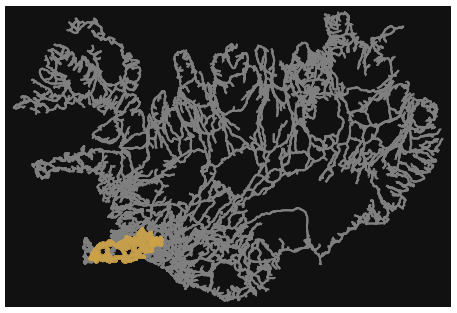
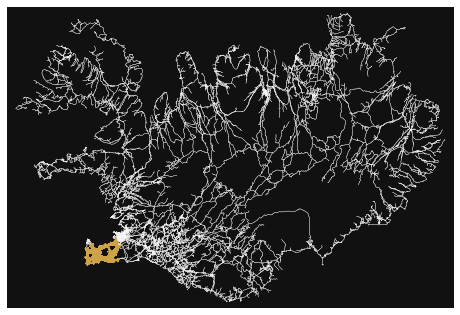
adding higher res photos

Changed region(s): [[0.0, 0.0, 0.9803, 1.0]]

diff --git a/blog/index.html b/blog/index.html
@@ -569,13 +569,14 @@ layout: default
         fig, ax = ox.plot_graph_route(graph,
                                         route,
                                         node_size=0,
-                                        edge_linewidth=2,
-                                        edge_color='grey',
+                                        edge_linewidth=0.3,
+                                        edge_color='white',
                                         route_color="#EB8D43",
-                                        route_alpha=0.9,
+                                        route_linewidth=1.5,
+                                        route_alpha=1.0,
                                         orig_dest_size=0)
         </code></pre>
-        <img src="map/my_path.png" class="post_img" alt="A black background, with the all the roads in Iceland plotted in dark grey. An orange line traces my path through the country."></img>
+        <img src="map/my_path.png" class="post_img" width="80%" alt="A black background, with the all the roads in Iceland plotted in grey. An orange line traces my path through the country."></img>
 
         And here we have a visualization of my vacation. 
         It's also important to note some limitations in this visualization. This method requires snapping to a road network. This might get incorrect locations at times when I was not on a true road, like on hikes or boats. Additionally, the shortest path between two points might not be the path that I took. This can lead to wrong data especially in cases where I travelled far between Google's recordings.
@@ -664,7 +665,6 @@ layout: default
         <p>This bias towards novelty does a little better. Now, we much more easily get out of the city, and even get to a different part of the island. But the areas it visits are still more densely explored than mine, and I stil get more coverage of the island as whole.
         </p>
         There's a lot of ways we could build on this bias towards novelty to get more realistic looking walks. We culd add a bias towards popular locations, force the walk to start and stop at the airport, or give the walker global knowledge of the graph and tell it to navigate efficiently to specific landmarks. But for now, we'll stop here, and appreciate the aesthetic differences in these few exploration styles.
-
         <h3>Other resources</h3>
         <ul>
             <li>This project was inspired by <a class="ext" href="https://twitter.com/IvaBrunec/status/1536141712426409985">this twitter post </a> by Dr. Iva Brunec</li>
